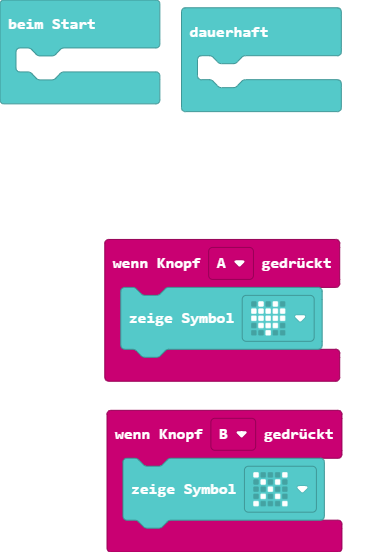
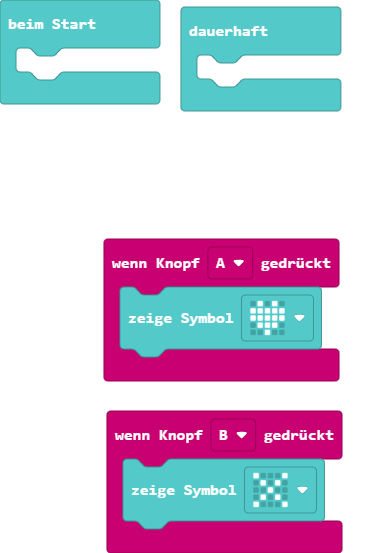
Aktualisiere main.blocks, main.ts

diff --git a/main.ts b/main.ts
@@ -1,9 +1,9 @@
 input.onButtonPressed(Button.A, function () {
-    basic.showIcon(IconNames.Yes)
+    basic.showIcon(IconNames.Heart)
 })
 input.onButtonPressed(Button.B, function () {
     basic.showIcon(IconNames.No)
 })
 basic.forever(function () {
-    basic.showNumber(0)
+	
 })
